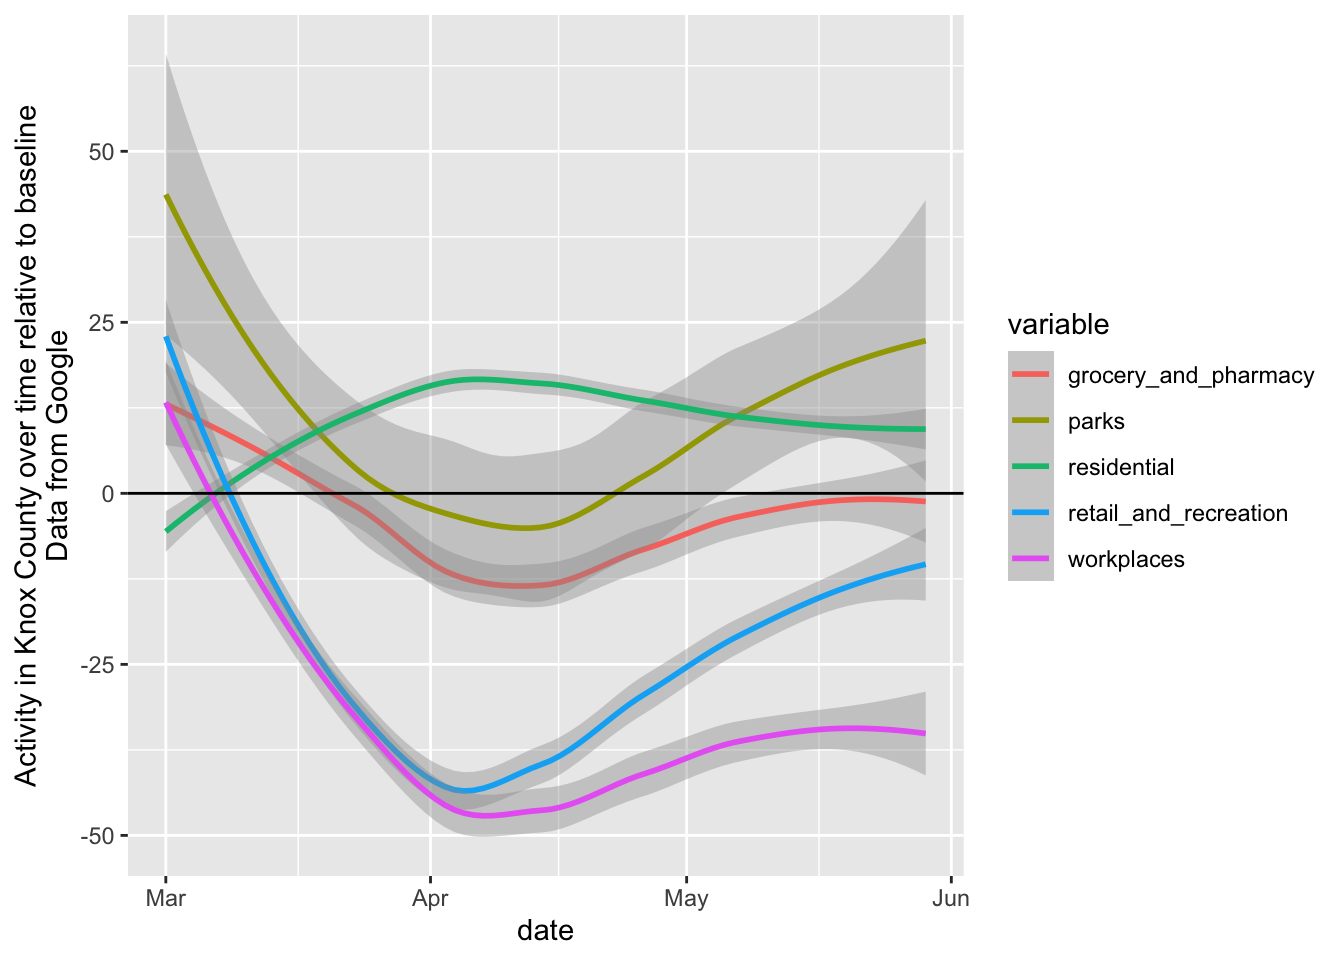
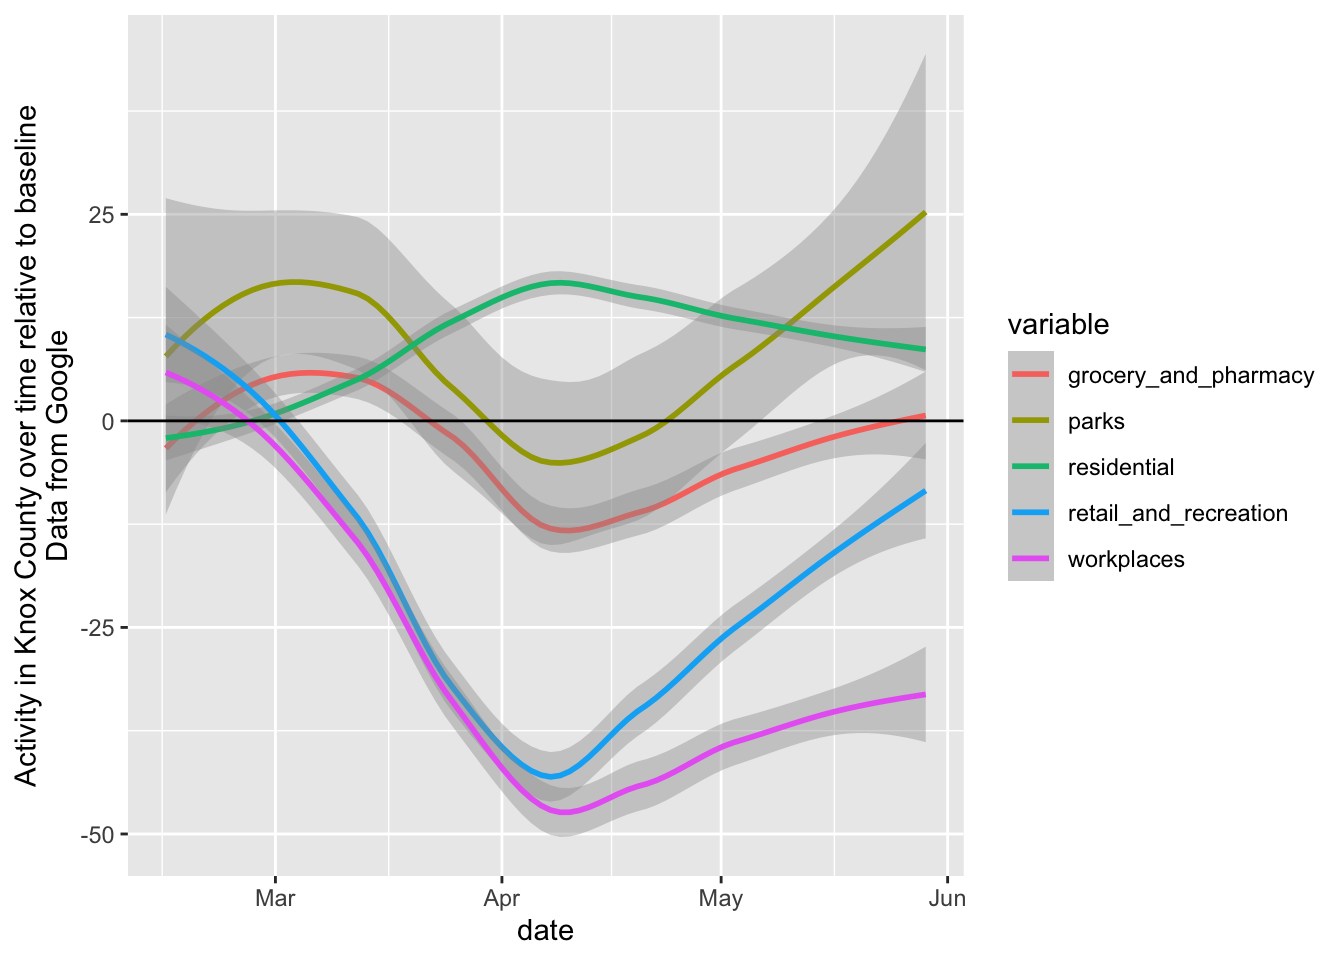
updating site

diff --git a/docs/covid.html b/docs/covid.html
@@ -400,34 +400,18 @@ $(document).ready(function () {
 <p>Here are notes and links I personally find useful, all gathered in one place. Note I am not an expert in epidemiology, so when I am plotting things, it’s for my own interest.</p>
 <p><a href="https://www.utk.edu/coronavirus/">UTK coronavirus information</a>. See especially the <a href="https://chancellor.utk.edu/re-imagining-fall-task-force/report/">current task force report</a>.</p>
 <p>Projections for Tennessee</p>
-<iframe src="https://covid19-projections.com/us-tn">
+<iframe src="https://covid19-projections.com/us-tn" width="600" height="600">
 </iframe>
 <p>Downtown Gatlinburg, a tourist town near us</p>
-<iframe src="http://www.smokyfrontier.com/">
+<iframe src="http://www.smokyfrontier.com/" width="600" height="600">
 </iframe>
 <p>Newfound Gap in the Smokies</p>
-<iframe src="https://www.air-resource.net/grsmnfgap/">
+<iframe src="https://www.air-resource.net/grsmnfgap/" width="600" height="600">
 </iframe>
 <p>Market Square</p>
-<p>&lt;iframe src=“<a href="https://www.knoxnews.com/pages/interactives/market-square-cam/" class="uri">https://www.knoxnews.com/pages/interactives/market-square-cam/</a>”</iframe></p>
-<pre><code>## 
-##   World Bank Open Data (2018), https://data.worldbank.org
-## 
-##   Hale Thomas, Sam Webster, Anna Petherick, Toby Phillips, and Beatriz
-##   Kira (2020). Oxford COVID-19 Government Response Tracker, Blavatnik
-##   School of Government.
-## 
-##   Johns Hopkins Center for Systems Science and Engineering (2020),
-##   https://github.com
-## 
-##   Guidotti, E., Ardia, D., (2020), &quot;COVID-19 Data Hub&quot;, Working paper,
-##   doi: 10.13140/RG.2.2.11649.81763.
-## 
-## To see these entries in BibTeX format, use &#39;print(&lt;citation&gt;,
-## bibtex=TRUE)&#39;, &#39;toBibtex(.)&#39;, or set
-## &#39;options(citation.bibtex.max=999)&#39;.
-## 
-## To hide the data sources use &#39;verbose = FALSE&#39;.</code></pre>
+<iframe src="https://www.knoxnews.com/pages/interactives/market-square-cam/" width="600" height="600">
+</iframe>
+<p>Here are some plots, created in R using data from <a href="https://covid19datahub.io" class="uri">https://covid19datahub.io</a> (Guidotti, E., Ardia, D., (2020), “COVID-19 Data Hub”, Working paper, doi: 10.13140/RG.2.2.11649.81763), as well as information from Google and plotting and analysis using the <code>forecast</code>, <code>ggplot2</code>, <code>reshape2</code>, and <code>dplyr</code> packages. Plots created on 2020-06-06.</p>
 <p><img src="covid_files/figure-html/plots-1.png" width="672" /><img src="covid_files/figure-html/plots-2.png" width="672" /><img src="covid_files/figure-html/plots-3.png" width="672" /></p>
 
 
